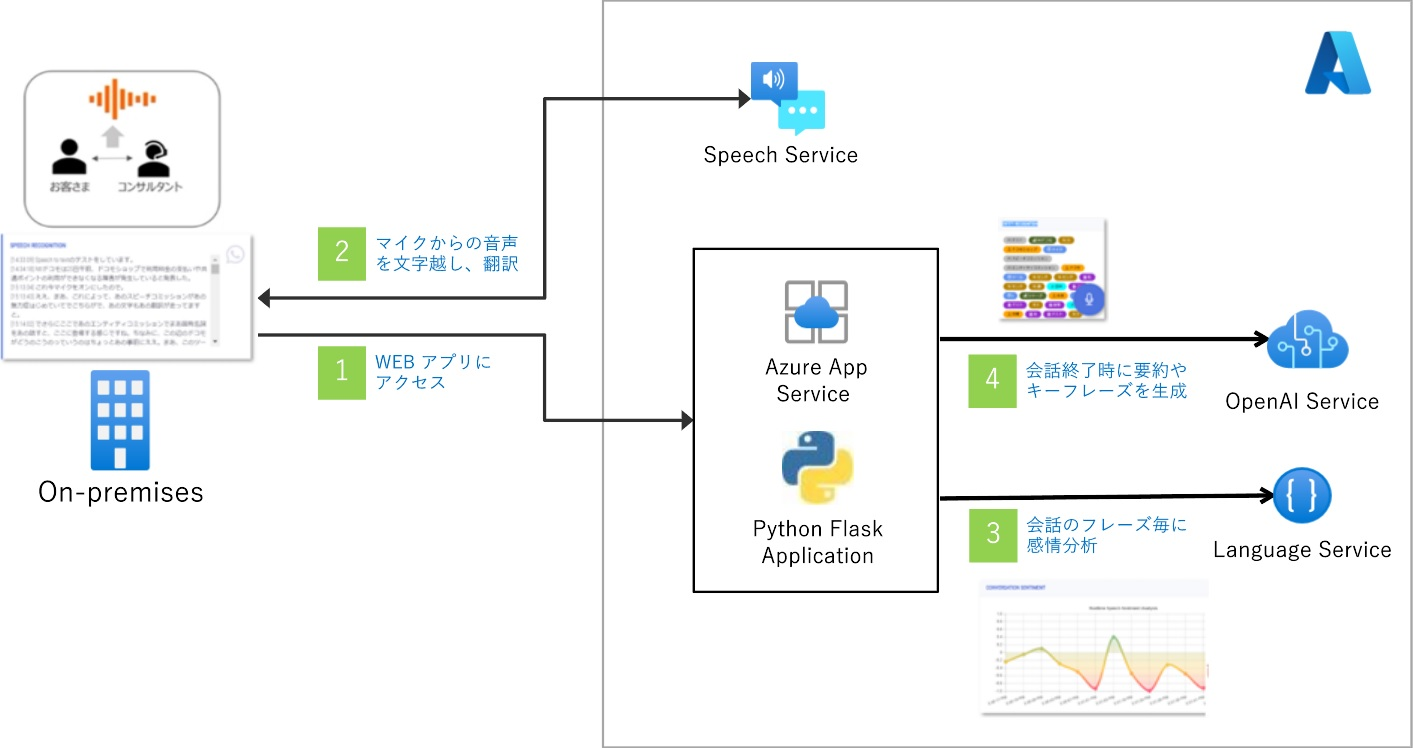
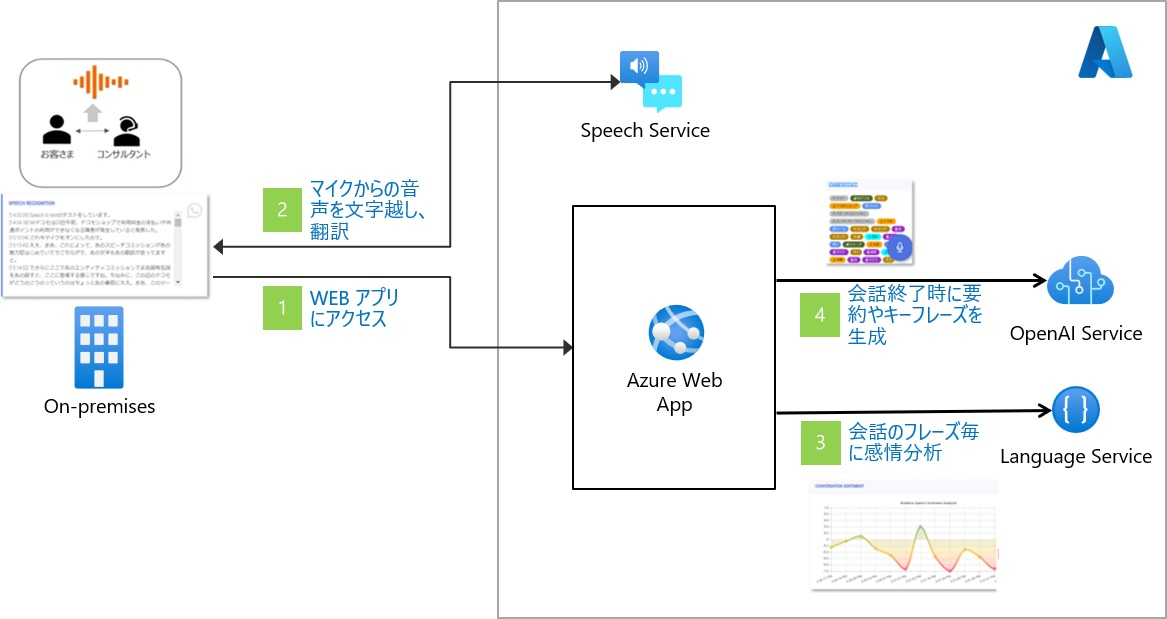
Remove Lnading Zone

diff --git a/1.call-center/README.md b/1.call-center/README.md
@@ -21,7 +21,6 @@ WEB アプリケーションを Azure App Service でホストしたソリュー
 
 ![Solution](assets/diagram.jpg)
 
-こちらは "検証用途の構成" を示しています。運用環境として構成する場合には後半で示されている "ランディングゾーン構成" をご検討ください。
 
 |  サービス名  |  SKU  | Note |
 | ---- | ---- | ---- |
@@ -171,23 +170,6 @@ Azure ポータルで、各バックエンドサービスの [アクセス制御
 VSCode の左側ペインより Azure アイコンを選択し、該当する [App Service] に対して [Deploy to Web App...] にてアプリケーションを展開します。
 
 ![Deploy](assets/deploy.jpg)
-
-## ランディングゾーン
-
-完全な閉域構成で利用するためのランディングゾーンとなります。インターネットを経由した外部通信が一切発生しない内部通信のみで利用できる構成となります。
-
-![Landingzone](assets/landing_zone.jpg)
-
-ランディングゾーンで利用する SKU の参考例となります。ASE を利用しない Basic プラン以上の App Service でも [VNET 統合](https://learn.microsoft.com/ja-jp/azure/app-service/overview-vnet-integration)と[プライベートエンドポイント](https://learn.microsoft.com/ja-jp/azure/app-service/networking/private-endpoint)を利用する事で閉域構成が可能です。App Service に関しては SLA の観点で最低2つのインスタンスが必要となります。
-
-|  サービス名  |  SKU  | Note |
-| ---- | ---- | ---- |
-| Azure App Service  |  I1v2  | Python 3.11 |
-| Azure OpenAI Service |  Standard  | text-davinci-003 |
-| Speech Services |  Standard  | |
-| Language Services |  Standard  | |
-
-参考資料：[ハブアンドスポーク ネットワーク内の Azure Private Link](https://learn.microsoft.com/ja-jp/azure/architecture/guide/networking/private-link-hub-spoke-network)
 
 ## Credit
 
